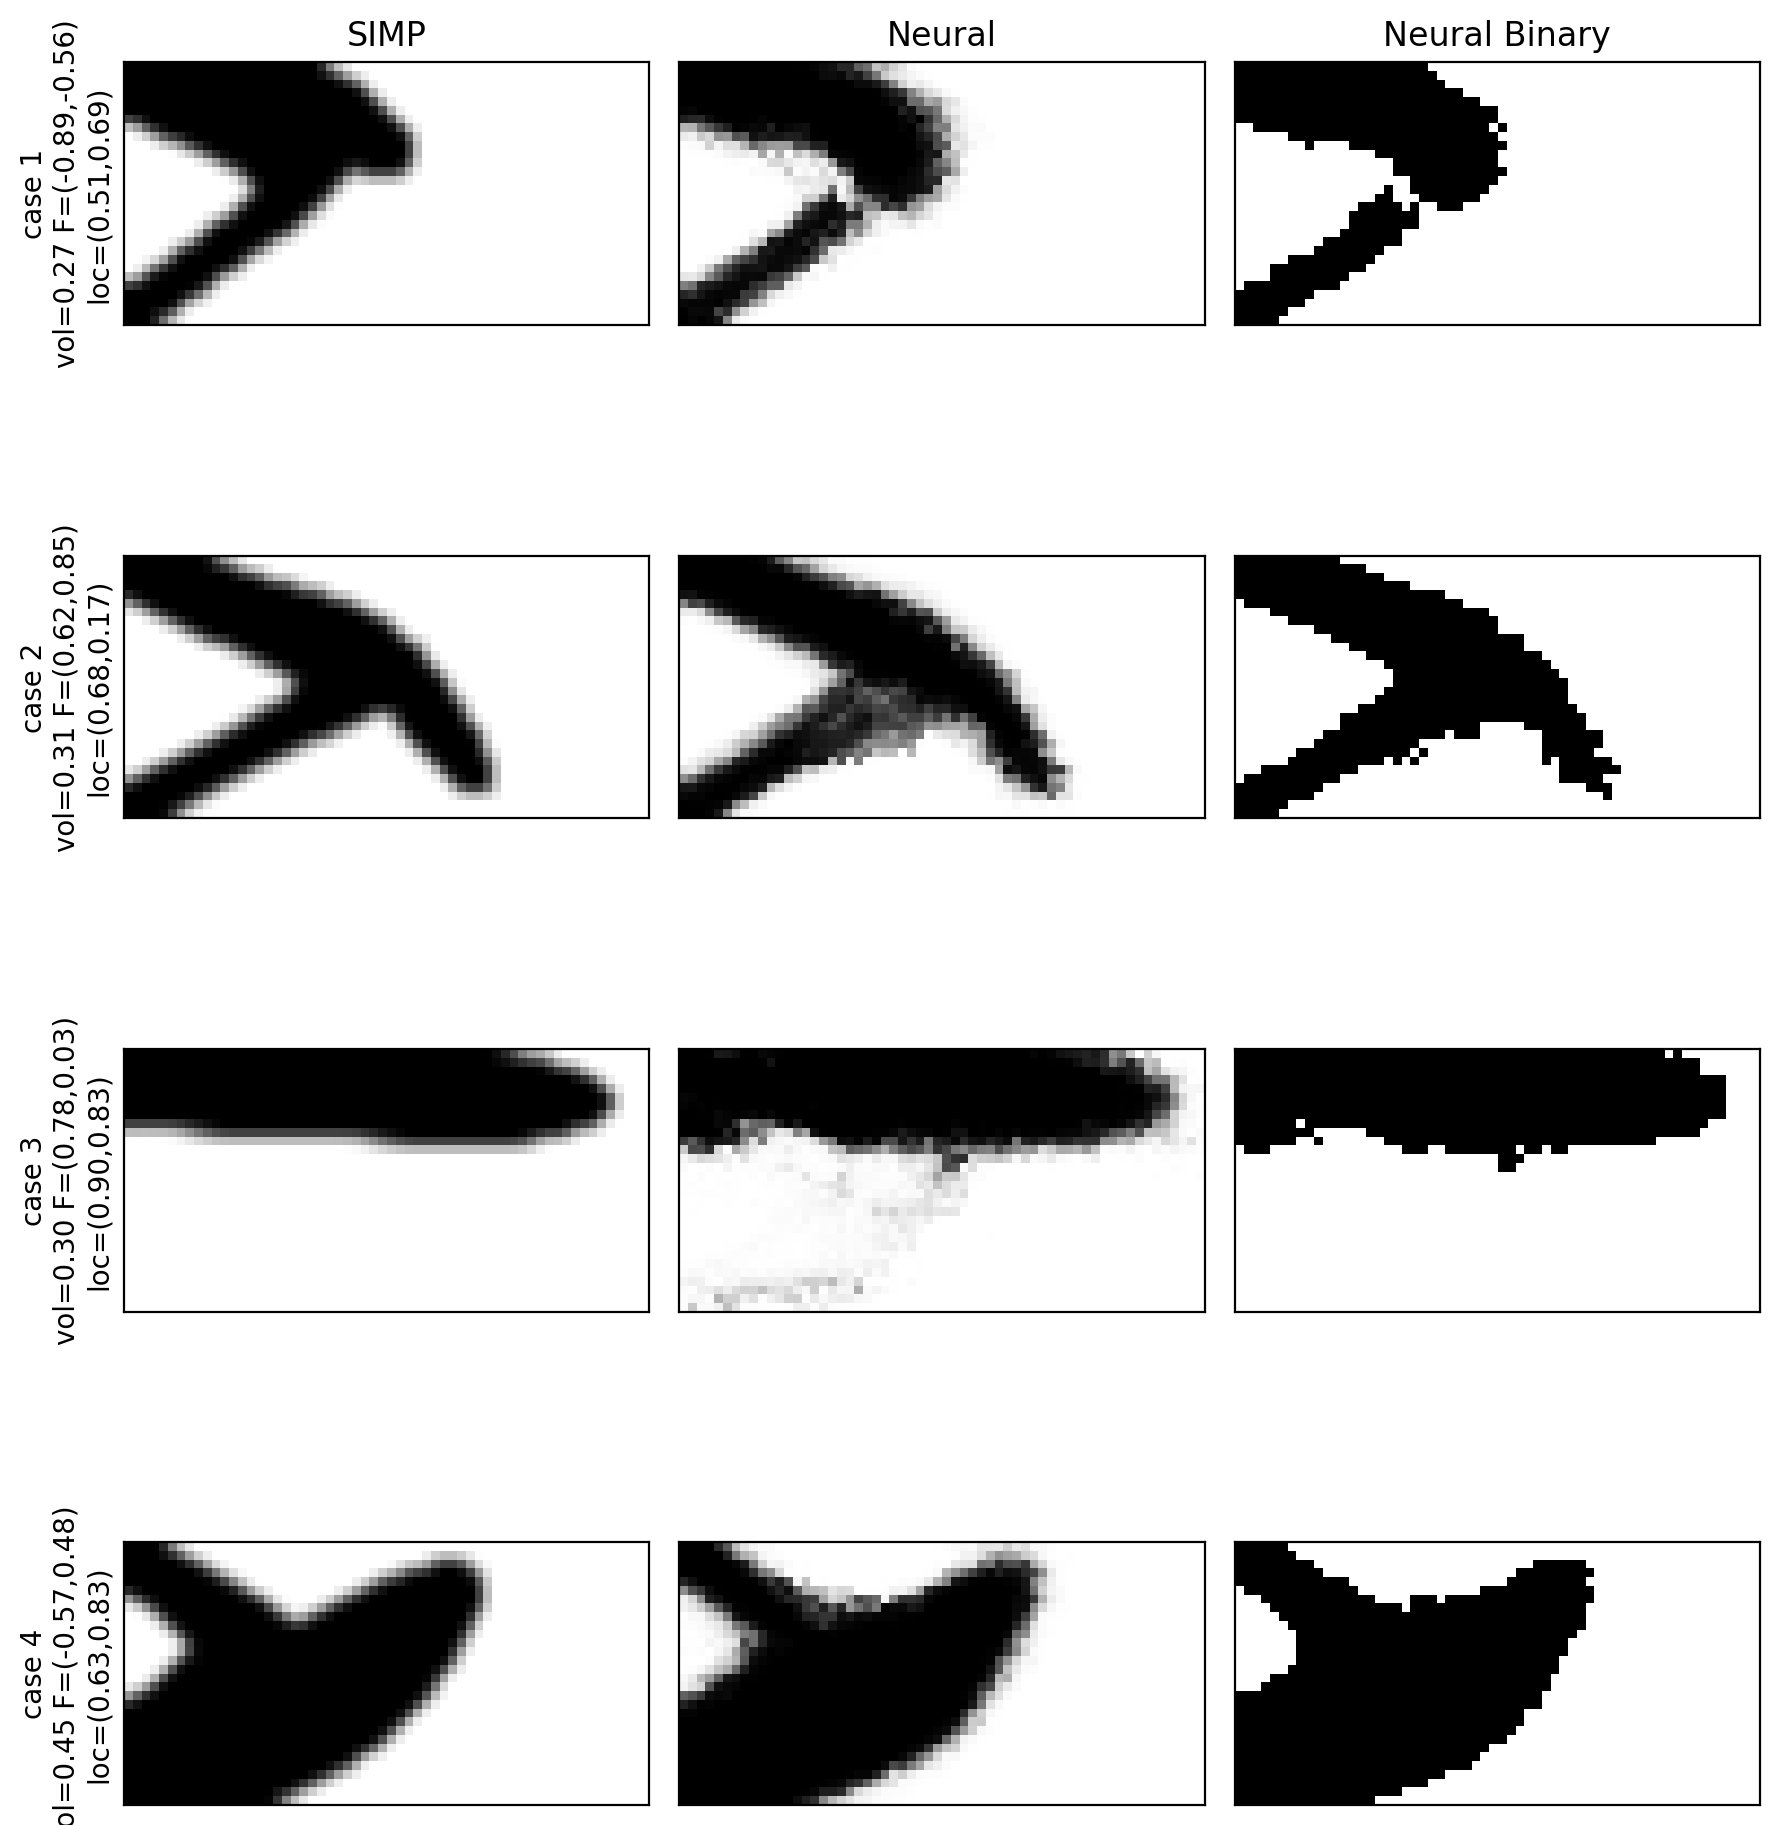
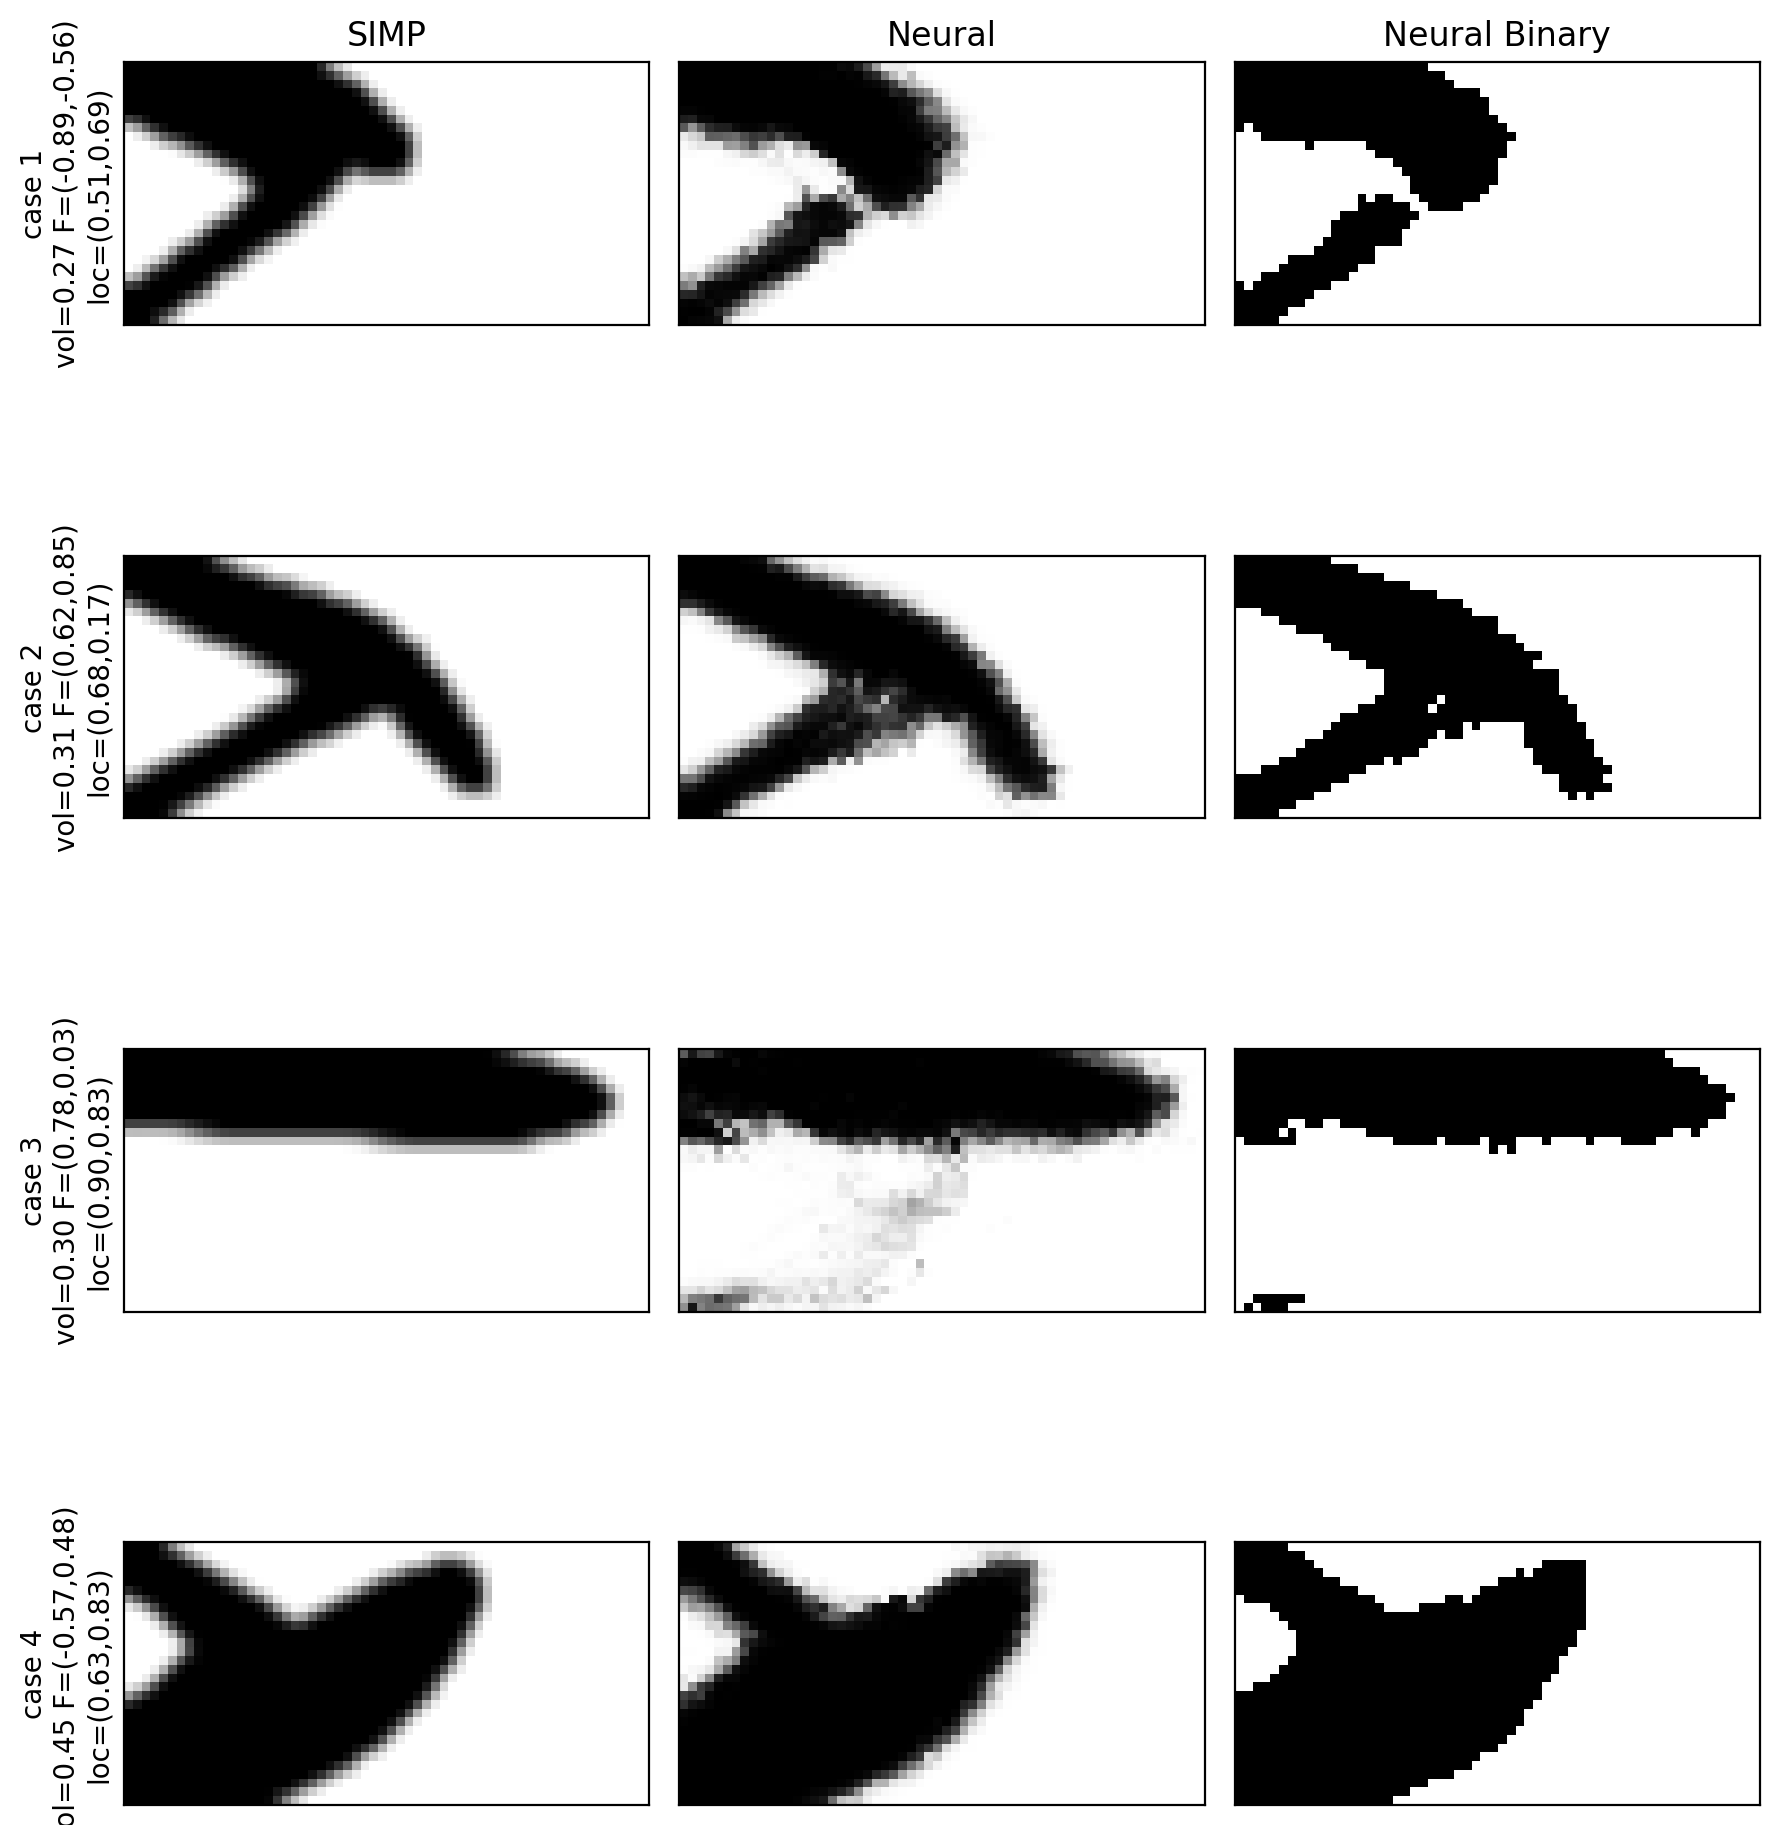
A real time generative design UI has been implemented

diff --git a/app.py b/app.py
@@ -1,0 +1,184 @@
+"""Interactive topology generation app for the conditional implicit model."""
+
+from __future__ import annotations
+
+import time
+from pathlib import Path
+
+import matplotlib.pyplot as plt
+import numpy as np
+import streamlit as st
+import torch
+
+from dataset import _make_normalized_coords
+from eval import load_model, volume_fraction
+from model import ConditionalImplicitNetwork
+from train import get_device
+
+
+DEFAULT_CHECKPOINT = "checkpoints/best.pth"
+
+
+def main() -> None:
+    st.set_page_config(page_title="Real-Time Topology Generator", layout="wide")
+    st.title("Real-Time Topology Generator")
+    st.caption(
+        "Adjust the design condition and the neural implicit field predicts the "
+        "density field directly, without rerunning SIMP."
+    )
+
+    checkpoint_path = st.sidebar.text_input("Checkpoint", DEFAULT_CHECKPOINT)
+    threshold_view = st.sidebar.checkbox("Show binarized density", value=False)
+    threshold = st.sidebar.slider("Binarization threshold", 0.0, 1.0, 0.5, 0.01)
+
+    try:
+        model, metadata, device = load_cached_model(checkpoint_path)
+    except FileNotFoundError:
+        st.error(f"Checkpoint not found: `{checkpoint_path}`")
+        st.stop()
+    except Exception as exc:
+        st.error(f"Could not load checkpoint: {exc}")
+        st.stop()
+
+    nelx = int(metadata["nelx"])
+    nely = int(metadata["nely"])
+
+    controls, visualization = st.columns([1, 2.2], gap="large")
+    with controls:
+        st.subheader("Condition")
+        volfrac = st.slider("Volume Fraction", 0.2, 0.6, 0.4, 0.01)
+        load_x = st.slider("Load X Position", nelx // 2, nelx - 1, nelx - 1, 1)
+        load_y = st.slider("Load Y Position", 0, nely - 1, nely // 2, 1)
+        load_fx = st.slider("Force X Magnitude", -1.0, 1.0, 0.0, 0.01)
+        load_fy = st.slider("Force Y Magnitude", -1.0, 1.0, -1.0, 0.01)
+
+    condition = make_condition(volfrac, load_x, load_y, load_fx, load_fy, nelx, nely)
+
+    start = time.perf_counter()
+    density = generate_topology(model, condition, nelx, nely, device)
+    inference_ms = (time.perf_counter() - start) * 1_000.0
+
+    display_density = (density > threshold).astype(np.float32) if threshold_view else density
+
+    with visualization:
+        st.subheader("Predicted Density")
+        fig = make_density_figure(
+            display_density,
+            load_x=load_x,
+            load_y=load_y,
+            load_fx=load_fx,
+            load_fy=load_fy,
+        )
+        st.pyplot(fig, clear_figure=True)
+
+        metric_cols = st.columns(3)
+        metric_cols[0].metric("Inference", f"{inference_ms:.2f} ms")
+        metric_cols[1].metric("Target Volume", f"{volfrac:.3f}")
+        metric_cols[2].metric("Predicted Volume", f"{volume_fraction(density):.3f}")
+
+        st.code(
+            "condition = "
+            f"[{condition[0]:.3f}, {condition[1]:.3f}, {condition[2]:.3f}, "
+            f"{condition[3]:.3f}, {condition[4]:.3f}]",
+            language="python",
+        )
+
+
[email redacted]_resource(show_spinner="Loading model...")
+def load_cached_model(
+    checkpoint_path: str,
+) -> tuple[ConditionalImplicitNetwork, dict[str, object], torch.device]:
+    path = Path(checkpoint_path)
+    if not path.exists():
+        raise FileNotFoundError(path)
+
+    device = get_device()
+    model, metadata = load_model(path, device)
+    model.eval()
+    return model, metadata, device
+
+
+def make_condition(
+    volfrac: float,
+    load_x: int,
+    load_y: int,
+    load_fx: float,
+    load_fy: float,
+    nelx: int,
+    nely: int,
+) -> np.ndarray:
+    return np.array(
+        [
+            volfrac,
+            load_x / max(1, nelx - 1),
+            load_y / max(1, nely - 1),
+            load_fx,
+            load_fy,
+        ],
+        dtype=np.float32,
+    )
+
+
[email redacted]_grad()
+def generate_topology(
+    model: ConditionalImplicitNetwork,
+    condition: np.ndarray,
+    nelx: int,
+    nely: int,
+    device: torch.device,
+) -> np.ndarray:
+    coords = get_coords(nelx, nely, str(device)).to(device)
+    cond = torch.as_tensor(condition, dtype=torch.float32, device=device).unsqueeze(0)
+    density = model(coords, cond).squeeze(0).squeeze(-1)
+    return density.reshape(nelx, nely).detach().cpu().numpy()
+
+
[email redacted]_resource
+def get_coords(nelx: int, nely: int, device_name: str) -> torch.Tensor:
+    device = torch.device(device_name)
+    return _make_normalized_coords(nelx, nely).to(device).unsqueeze(0)
+
+
+def make_density_figure(
+    density: np.ndarray,
+    *,
+    load_x: int,
+    load_y: int,
+    load_fx: float,
+    load_fy: float,
+) -> plt.Figure:
+    nelx, nely = density.shape
+    fig, ax = plt.subplots(figsize=(9, 4.5))
+    ax.imshow(
+        density.T,
+        cmap="gray_r",
+        origin="lower",
+        vmin=0.0,
+        vmax=1.0,
+        interpolation="nearest",
+    )
+
+    force = np.array([load_fx, load_fy], dtype=float)
+    force_norm = float(np.linalg.norm(force))
+    if force_norm > 1e-12:
+        arrow_length = max(1.0, 0.2 * min(nelx, nely))
+        arrow = force / force_norm * arrow_length
+        ax.annotate(
+            "",
+            xy=(load_x + arrow[0], load_y + arrow[1]),
+            xytext=(load_x, load_y),
+            arrowprops={"arrowstyle": "->", "color": "tab:red", "lw": 2.5},
+        )
+    ax.scatter([load_x], [load_y], s=36, c="tab:red")
+
+    ax.set_xlim(-0.5, nelx - 0.5)
+    ax.set_ylim(-0.5, nely - 0.5)
+    ax.set_xlabel("x element")
+    ax.set_ylabel("y element")
+    ax.set_title("Neural Implicit Density Prediction")
+    fig.tight_layout()
+    return fig
+
+
+if __name__ == "__main__":
+    main()